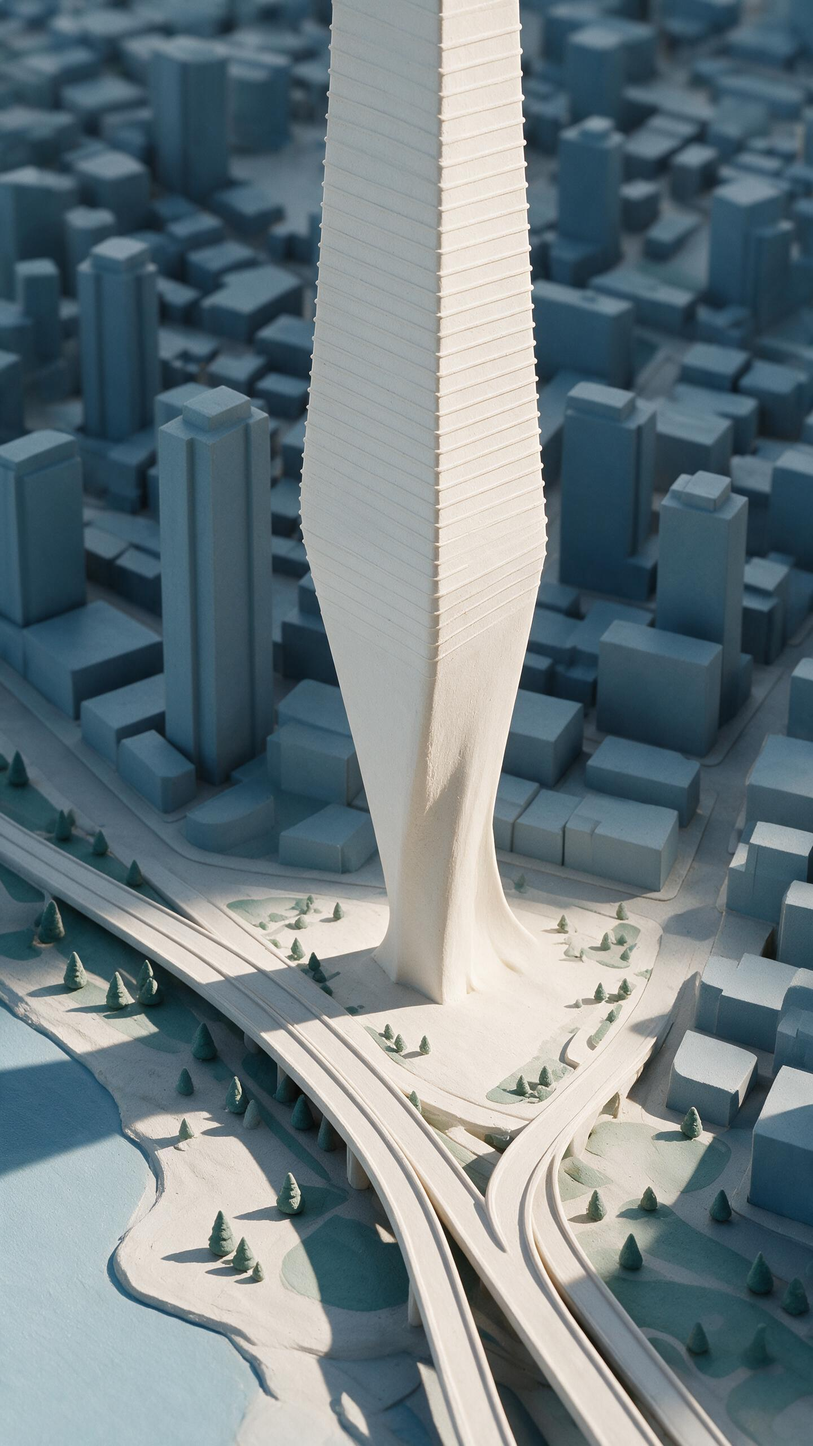
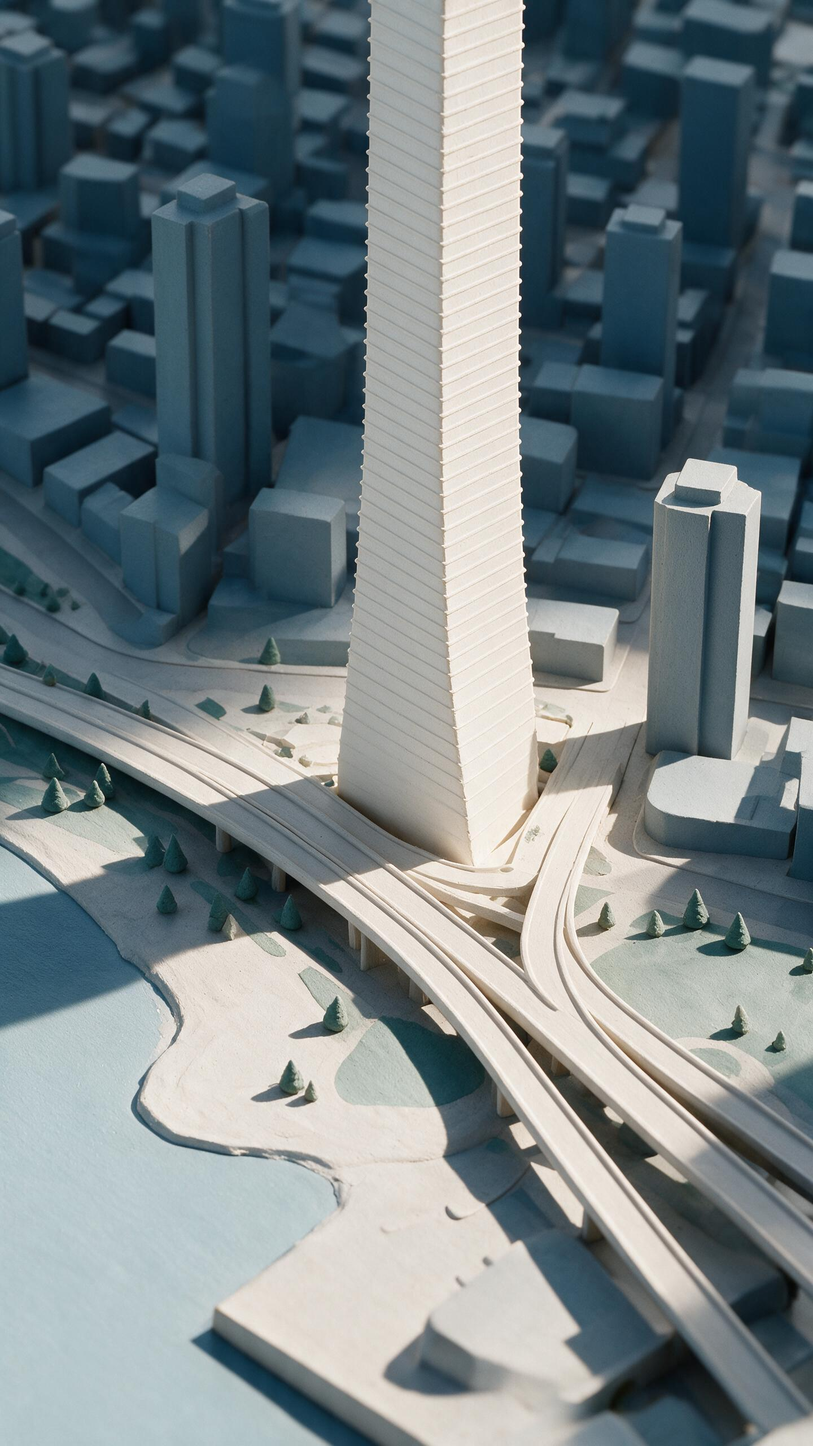
Add assembly stage and replace the weak plaza keyframe
K09 regenerated twice. The first retry produced a more striking image but
broke the set: it invented a sky, dropped to ground level away from the
aerial model language every other frame shares, and tapered the base to an
impossible single point. The building's base is a triangle, not a point, and
the video's whole value is that its claims are accurate — so that version is
kept only as _K09_plaza_rejected_v2.jpg for the record. The third attempt
holds the model language and shows a real triangular footing.

assembly/make_captions.py generates the one-word-at-a-time SRT by spreading
each beat's words across its time window (264 cues, ending at 1:31).

assembly/build.sh concatenates the clips, builds the 6s push on the closing
photograph, applies the charcoal letterbox and static serif banner, burns in
the captions and muxes the narration. It must be run outside the Claude
sandbox: this environment's egress policy blocks the Magnific CDN, so the
rendered clips cannot be fetched here.

Dimension labels stay out of the renders and are documented as timed drawtext
filters at the foot of the build script.

Claude-Session: https://claude.ai/code/session_013uJGXRrUJpTDgAp8au7GTE

diff --git a/vancouver-house/assembly/make_captions.py b/vancouver-house/assembly/make_captions.py
@@ -1,0 +1,63 @@
+#!/usr/bin/env python3
+"""Generate the word-by-word karaoke SRT for the Vancouver House explainer.
+
+The reference video shows exactly one word at a time at ~3 words/sec. This
+distributes each beat's words evenly across that beat's time window, which is
+what reads as "karaoke" without needing forced alignment.
+
+Usage:  python3 make_captions.py > captions.srt
+"""
+
+# (start_seconds, end_seconds, text)
+BEATS = [
+    (0.0,  7.0,  "This is the worst-shaped piece of land in Vancouver. "
+                 "It's a triangle. And it sits directly underneath a bridge."),
+    (7.0,  14.0, "Where the Granville Bridge hits downtown, it splits into three ramps. "
+                 "The slivers of land left between them were so awkward that for decades, "
+                 "nobody built on them."),
+    (14.0, 22.0, "Then the city set a condition. You cannot build within thirty metres "
+                 "of the bridge. On a plot this narrow, that erases almost all of it."),
+    (22.0, 29.0, "So any normal tower here is a thin triangular splinter, pressed against "
+                 "a highway. Small floors. Bad apartments. Nobody wants them."),
+    (29.0, 38.0, "But read the condition again. The thirty-metre setback only applies up to "
+                 "thirty metres of height. Above that line, the air is free."),
+    (38.0, 46.0, "So the tower stays pinched at the bottom, obeying the rule, and the moment "
+                 "it clears the bridge, it starts leaning back out over it."),
+    (46.0, 55.0, "Floor by floor, the triangle opens. The sharp corner fattens. By the top, "
+                 "the plan is a full rectangle."),
+    (55.0, 62.0, "The floorplate roughly doubles on the way up. The building takes back every "
+                 "square metre the bridge took from it."),
+    (62.0, 69.0, "And because the base stayed thin, the ground it never used becomes a public "
+                 "plaza, right underneath the bridge."),
+    (69.0, 76.0, "The curve on this side isn't sculpture. It's the sun, pulled back so the "
+                 "park next door never falls into shadow."),
+    (76.0, 83.0, "Walk around it and it changes. A slab. A blade. A twist. It's none of those. "
+                 "It's a triangle becoming a rectangle."),
+    (83.0, 88.0, "Same trick as the Flatiron. Not a shape someone wanted. A shape the site allowed."),
+    (88.0, 91.0, "Congratulations. You now know Vancouver House."),
+]
+
+
+def ts(seconds: float) -> str:
+    h, rem = divmod(seconds, 3600)
+    m, s = divmod(rem, 60)
+    return f"{int(h):02d}:{int(m):02d}:{int(s):02d},{int(round((s % 1) * 1000)):03d}"
+
+
+def main() -> None:
+    index = 1
+    for start, end, text in BEATS:
+        words = text.split()
+        step = (end - start) / len(words)
+        for i, word in enumerate(words):
+            w_start = start + i * step
+            w_end = w_start + step
+            print(index)
+            print(f"{ts(w_start)} --> {ts(w_end)}")
+            print(word)
+            print()
+            index += 1
+
+
+if __name__ == "__main__":
+    main()
